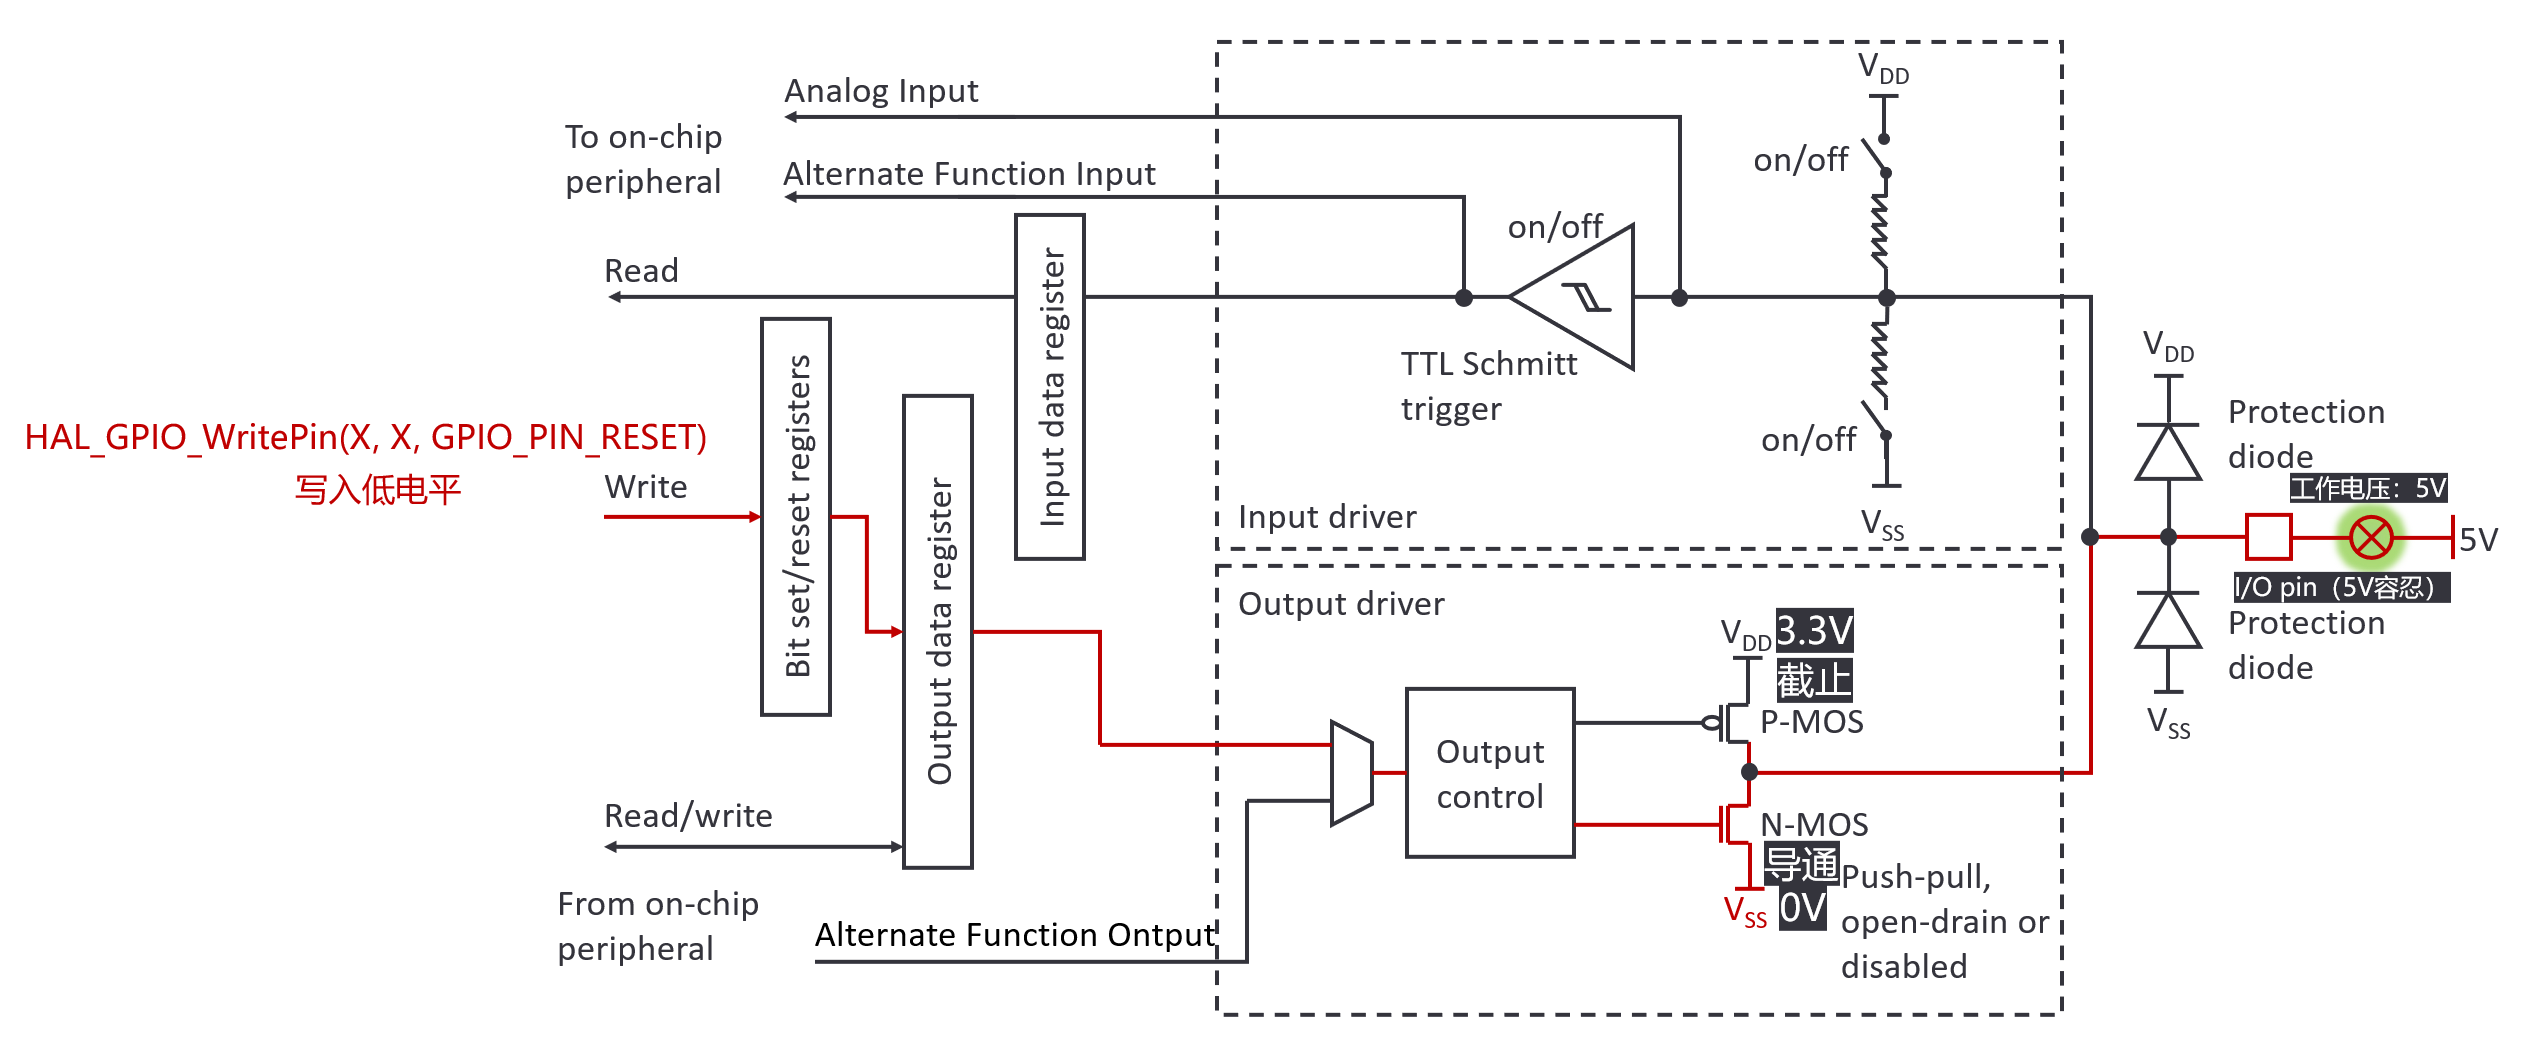
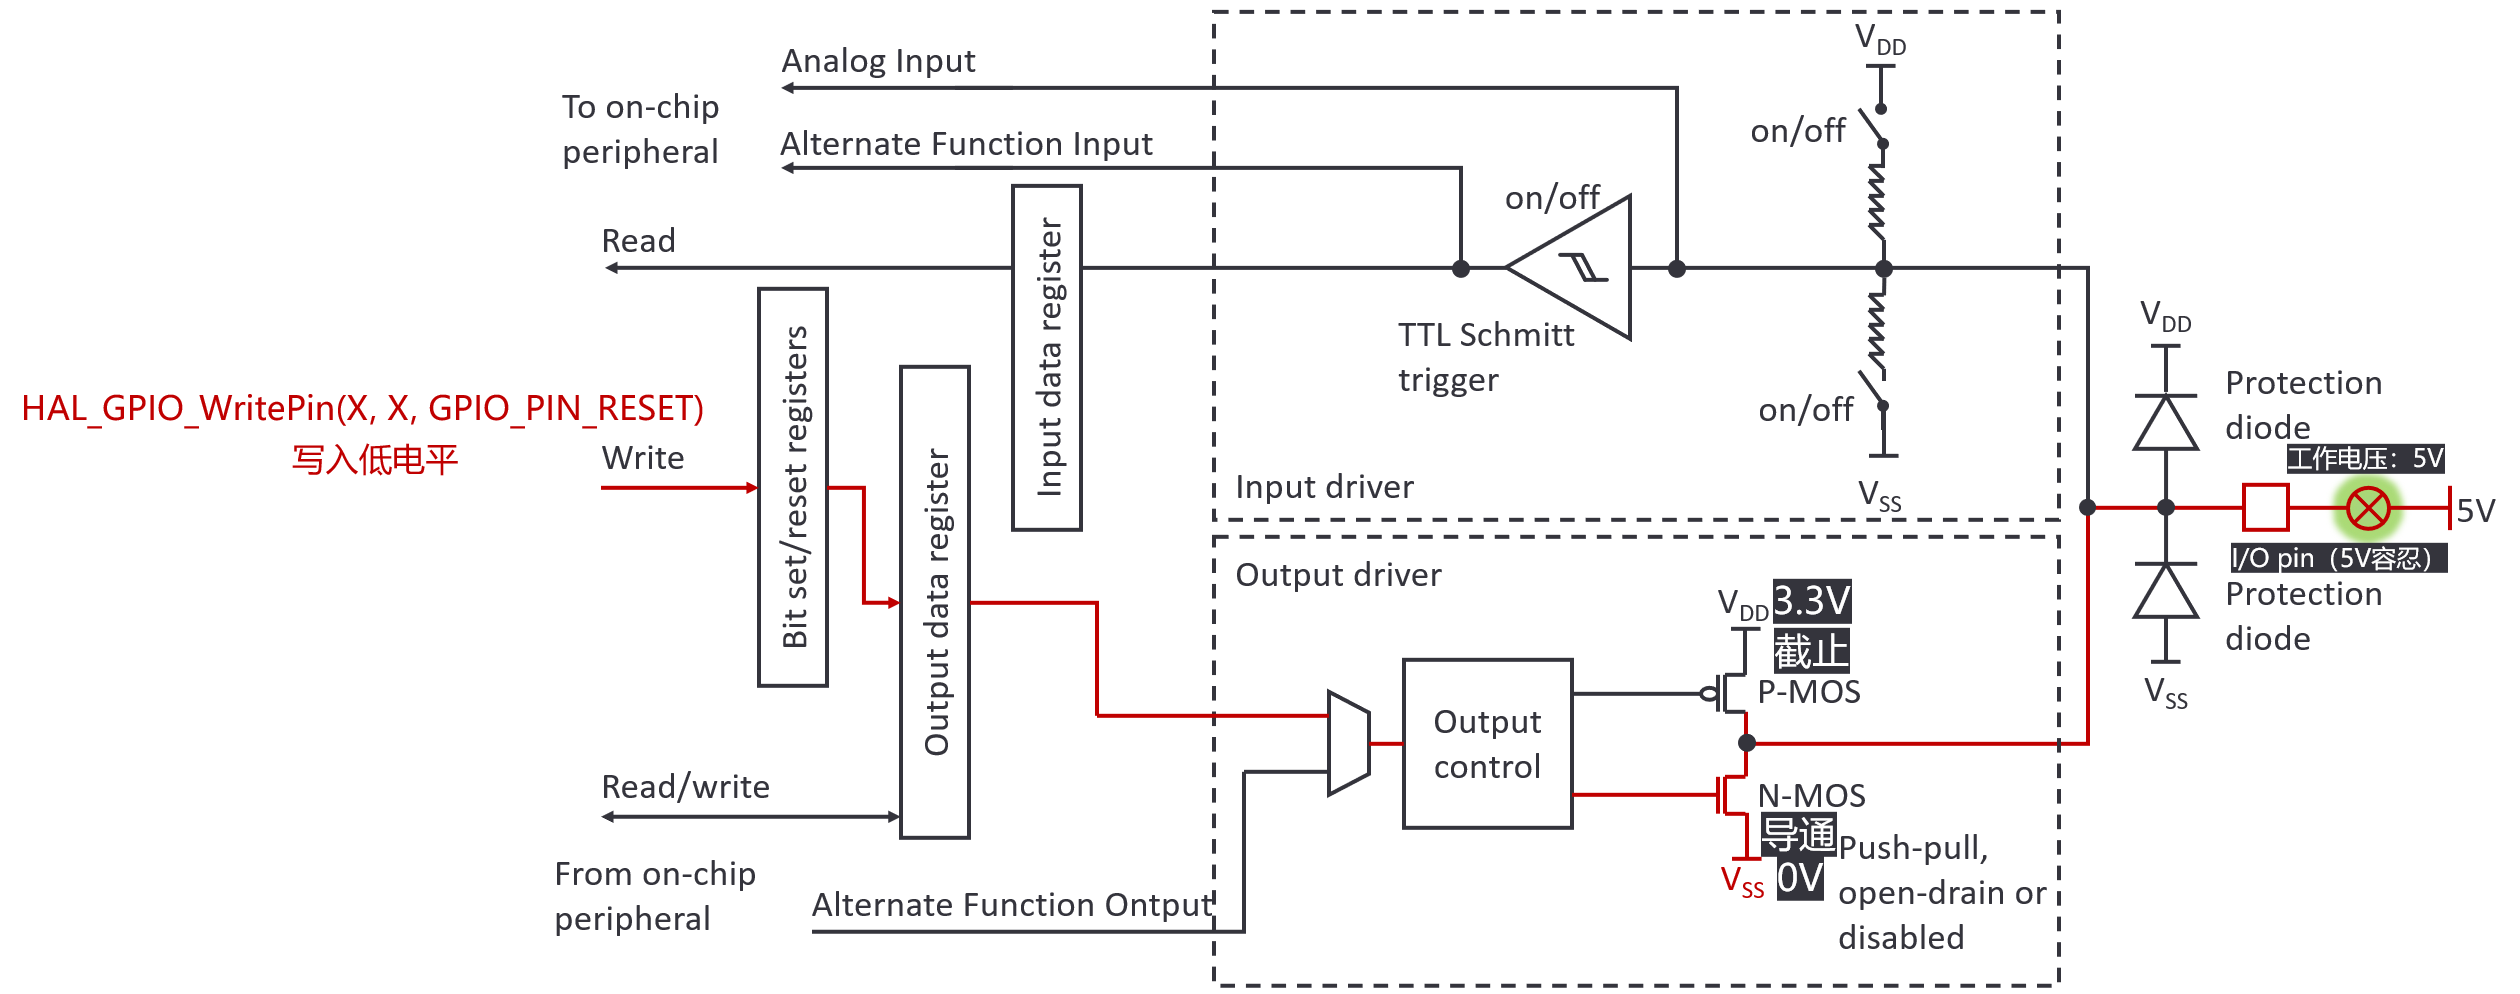
update: GPIO 8 - 图片双色适配

diff --git a/_posts/2025-10-11-GPIO的8大模式.md b/_posts/2025-10-11-GPIO的8大模式.md
@@ -47,7 +47,8 @@ image: ../assets/img-md/GPIO的8大模式/1-GPIO-light.png
 *   **N-MOS管**：截止，相当于一个断开的开关，与地隔离。
 *   **结果**：输出引脚被 **主动“推”** 到高电平（接近VDD），能够向外部的负载**提供电流**。
 
-![](../assets/img-md/GPIO的8大模式/2-推挽-高-light.png)
+![](../assets/img-md/GPIO的8大模式/2-推挽-高-light.png){: .light}
+![](../assets/img-md/GPIO的8大模式/2-推挽-高-dark.png){: .dark}
 
 ### 3.2 输出低电平
 
@@ -56,7 +57,8 @@ image: ../assets/img-md/GPIO的8大模式/1-GPIO-light.png
 *   **N-MOS管**：导通，相当于一个闭合的开关。它将输出端与 **VSS** 连接起来。
 *   **结果**：输出引脚被 **主动“拉”** 到低电平（接近VSS），能够从外部的负载**吸收电流**。
 
-![](../assets/img-md/GPIO的8大模式/3-推挽-低-light.png)
+![](../assets/img-md/GPIO的8大模式/3-推挽-低-light.png){: .light}
+![](../assets/img-md/GPIO的8大模式/3-推挽-低-dark.png){: .dark}
 
 ### 3.3 关键特点与优势
 
@@ -91,10 +93,12 @@ image: ../assets/img-md/GPIO的8大模式/1-GPIO-light.png
 
 ### 4.1 **开漏输出工作原理**
    **输出低电平**：N-MOS导通，将输出线**主动拉低**到GND。
-![](../assets/img-md/GPIO的8大模式/4-开漏-高-light.png)
+![](../assets/img-md/GPIO的8大模式/4-开漏-高-light.png){: .light}
+![](../assets/img-md/GPIO的8大模式/4-开漏-高-dark.png){: .dark}
 
    **输出高电平**：N-MOS截止，输出端处于**高阻态（悬空）**。此时，输出电平由外部电路决定。
-![](../assets/img-md/GPIO的8大模式/5-开漏-低-light.png)
+![](../assets/img-md/GPIO的8大模式/5-开漏-低-light.png){: .light}
+![](../assets/img-md/GPIO的8大模式/5-开漏-低-dark.png){: .dark}
 
 **开漏输出就像一个只能“关水”和“放水”的水龙头，但不能“造水”。**
    **输出低电平 = 放水**
@@ -162,6 +166,9 @@ image: ../assets/img-md/GPIO的8大模式/1-GPIO-light.png
 
 ## 7. 推挽复用输出
 
+![](../assets/img-md/GPIO的8大模式/6-推挽复用-light.png){: .light}
+![](../assets/img-md/GPIO的8大模式/6-推挽复用-dark.png){: .dark}
+
 - **信号来源**：来自**片上外设**（如图中的“From on-chip peripheral”）。
 - **输出结构**：与标准推挽输出完全相同，包含P-MOS和N-MOS组成的图腾柱。
 - **工作方式**：
@@ -176,6 +183,9 @@ image: ../assets/img-md/GPIO的8大模式/1-GPIO-light.png
 > **关键**：在这些应用中，通信是**点对点**的，一个输出只驱动一个（或少数几个）输入，不存在多个主设备同时驱动一条线的情况，因此可以使用高性能的推挽结构。
 
 ## 8. 开漏复用输出
+
+![](../assets/img-md/GPIO的8大模式/7-开漏复用-light.png){ .light}
+![](../assets/img-md/GPIO的8大模式/7-开漏复用-dark.png){ .dark}
 
 - **信号来源**：同样来自**片上外设**。
 - **输出结构**：与标准开漏输出完全相同，**只有下拉的N-MOS，没有上拉的P-MOS**。
@@ -212,7 +222,8 @@ image: ../assets/img-md/GPIO的8大模式/1-GPIO-light.png
 
 #### 10.1.1 当外部为高电平或悬空时
 
-![](../assets/img-md/GPIO的8大模式/8-上拉-高-light.png)
+![](../assets/img-md/GPIO的8大模式/8-上拉-高-light.png){: .light}
+![](../assets/img-md/GPIO的8大模式/8-上拉-高-dark.png){: .dark}
 
 - **内部状态**：内部上拉电阻（例如40kΩ）连接到VDD。由于外部没有强驱动，电流路径非常微弱。
 - **引脚电压**：上拉电阻将引脚电压拉至接近VDD（例如3.3V）。
@@ -224,7 +235,8 @@ image: ../assets/img-md/GPIO的8大模式/1-GPIO-light.png
 
 #### 10.1.2 当外部为低电平时
 
-![](../assets/img-md/GPIO的8大模式/9-上拉-低-light.png)
+![](../assets/img-md/GPIO的8大模式/9-上拉-低-light.png){: .light}
+![](../assets/img-md/GPIO的8大模式/9-上拉-低-dark.png){: .dark}
 
 *   **内部状态**：外部电路（如按钮、晶体管等）将引脚强制连接到GND（地）。
 *   **电流路径**：此时会形成一个明确的电流路径：**VDD → 内部上拉电阻 → 引脚 → 外部电路 → GND**。
@@ -278,7 +290,8 @@ image: ../assets/img-md/GPIO的8大模式/1-GPIO-light.png
 
 #### 11.1.1 当外部为高电平时
 
-![](../assets/img-md/GPIO的8大模式/10-下拉-高-light.png)
+![](../assets/img-md/GPIO的8大模式/10-下拉-高-light.png){: .light}
+![](../assets/img-md/GPIO的8大模式/10-下拉-高-dark.png){: .dark}
 
 *   **内部状态**：外部电路（如开关、传感器等）将引脚强制连接到高电平（如VCC）。
 *   **电流路径**：此时会形成一个明确的电流路径：**外部电源 → 引脚 → 内部下拉电阻 → GND**。
@@ -291,7 +304,8 @@ image: ../assets/img-md/GPIO的8大模式/1-GPIO-light.png
 
 #### 11.1.2 当外部为低电平或悬空时
 
-![](../assets/img-md/GPIO的8大模式/11-下拉-低-light.png)
+![](../assets/img-md/GPIO的8大模式/11-下拉-低-light.png){: .light}
+![](../assets/img-md/GPIO的8大模式/11-下拉-低-dark.png){: .dark}
 
 *   **内部状态**：内部下拉电阻（例如40kΩ）连接到GND。由于外部没有强驱动，电流路径非常微弱。
 *   **引脚电压**：下拉电阻将引脚电压拉至接近0V（GND）。
@@ -344,7 +358,8 @@ image: ../assets/img-md/GPIO的8大模式/1-GPIO-light.png
 
 浮空输入可以看作是上拉/下拉输入模式的“空白”版本。
 
-![](../assets/img-md/GPIO的8大模式/12-浮空-light.png)
+![](../assets/img-md/GPIO的8大模式/12-浮空-light.png){: .light}
+![](../assets/img-md/GPIO的8大模式/12-浮空-dark.png){: .dark}
 
 - **内部状态**：引脚直接连接到施密特触发器的输入端，内部没有任何有源器件为其提供默认电平。
 - **引脚电压**：在没有外部驱动时，引脚处于**高阻态**，其电压是**不确定的（悬浮的）**。它极易受到周围电磁环境的干扰，电压值会漂浮不定。
@@ -392,7 +407,8 @@ image: ../assets/img-md/GPIO的8大模式/1-GPIO-light.png
 
 ### 14.1 工作原理
 
-![](../assets/img-md/GPIO的8大模式/13-模拟-light.png)
+![](../assets/img-md/GPIO的8大模式/13-模拟-light.png){: .light}
+![](../assets/img-md/GPIO的8大模式/13-模拟-dark.png){: .dark}
 
 - 芯片内部通过一个**物理开关**，将引脚从数字输入路径（施密特触发器）上**彻底断开**。
 - 引脚被直接切换到一个**高阻抗、高精度的模拟采样电路**，并连接到ADC的输入端。
@@ -410,13 +426,13 @@ image: ../assets/img-md/GPIO的8大模式/1-GPIO-light.png
 
 ### 14.3 关键特性总结
 
-| 特性 | 模拟输入 |
-| :--- | :--- |
-| **内部连接** | 直接连接到 **ADC** 或 **模拟比较器** |
-| **与数字电路关系** | **完全物理断开**（禁用数字输入功能） |
-| **引脚状态** | **极高阻抗**，纯粹的采样点 |
-| **读取方式** | 必须通过 **ADC** 读取转换后的数字值，**不能**读取GPIO数据寄存器 |
-| **核心应用** | 连接各类模拟传感器（温度、光照、压力、音频）、电位器、电池电压检测等 |
+| 特性               | 模拟输入                                                             |
+| :----------------- | :------------------------------------------------------------------- |
+| **内部连接**       | 直接连接到 **ADC** 或 **模拟比较器**                                 |
+| **与数字电路关系** | **完全物理断开**（禁用数字输入功能）                                 |
+| **引脚状态**       | **极高阻抗**，纯粹的采样点                                           |
+| **读取方式**       | 必须通过 **ADC** 读取转换后的数字值，**不能**读取GPIO数据寄存器      |
+| **核心应用**       | 连接各类模拟传感器（温度、光照、压力、音频）、电位器、电池电压检测等 |
 
 ### 14.4 总结
 
